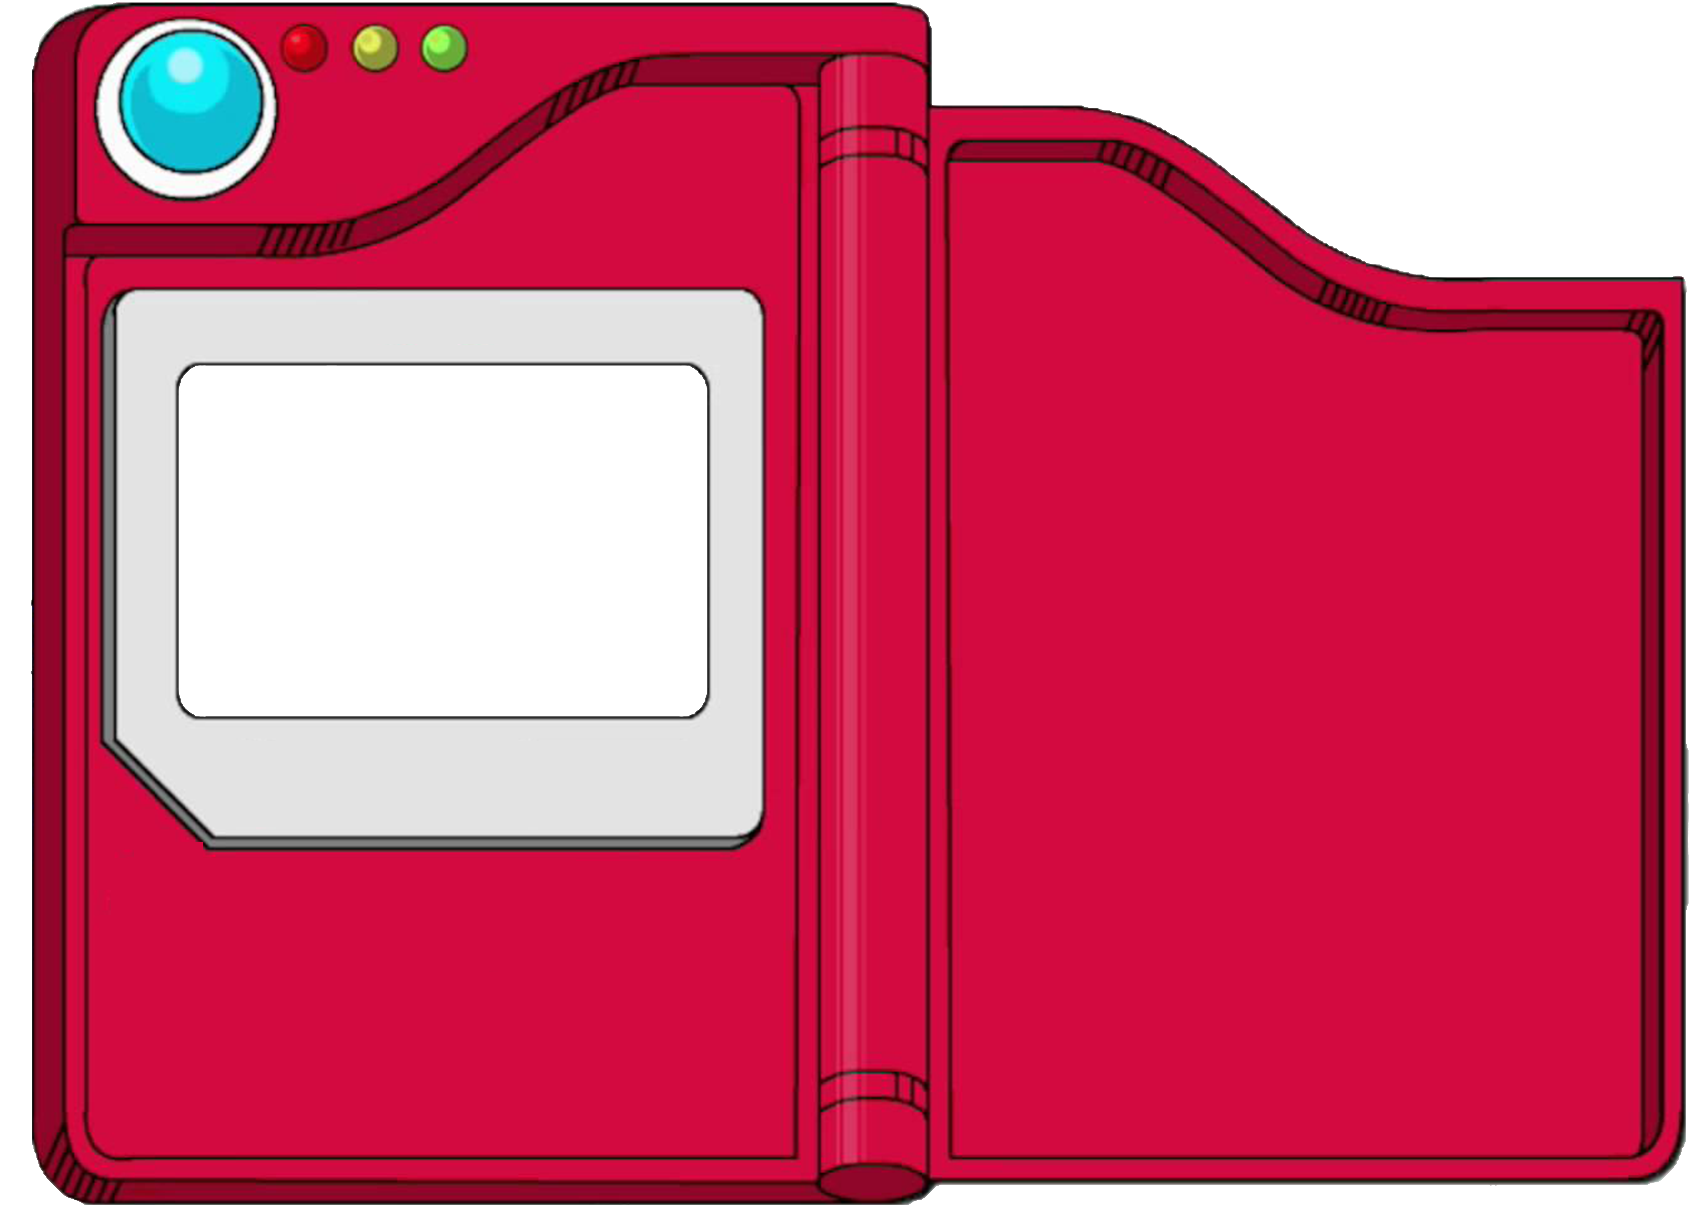
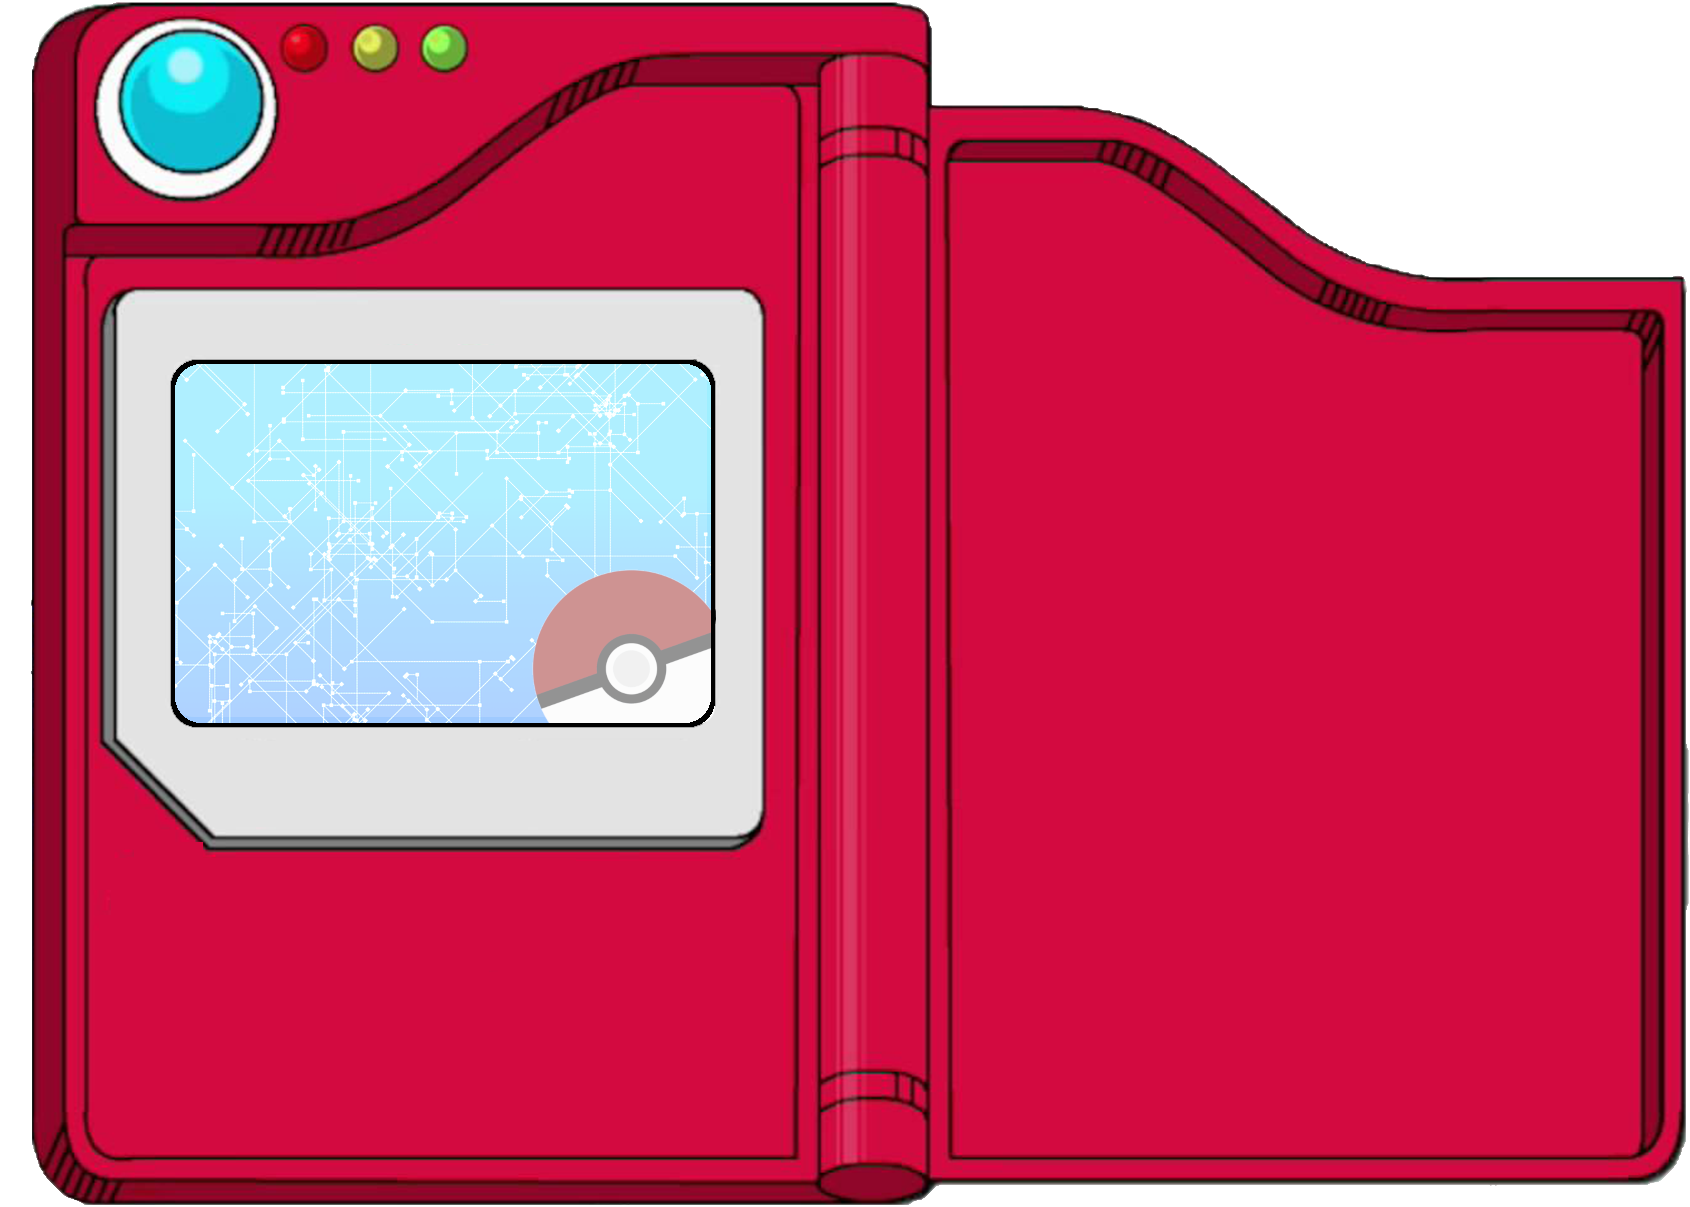
finished layout, next step: link API

Changed region(s): [[0.0923, 0.2759, 0.4308, 0.6131]]

diff --git a/index.html b/index.html
@@ -18,6 +18,8 @@
         <div class="pokedex-board">
             <img src="./images/pokedex.png" alt="pokedex" class="pokedex-machine">
 
+            <img src="./images/bulbassaur.png" class="pokemon-image" alt="pokemon">
+
             <input type="number" name="search-pokemon-number" id="search-pokemon-number" min="001" max="999" maxlength="3" placeholder="001">
 
             <div class="pads">

diff --git a/css/style.css b/css/style.css
@@ -67,6 +67,14 @@
     font-weight: 700;
 }
 
+.pokemon-image {
+    position: absolute;
+    text-align: center;
+    height: 50%;
+    top: 21%;
+    left: 22.5%;
+}
+
 .pads {
     position: absolute;
     height: 10%;
